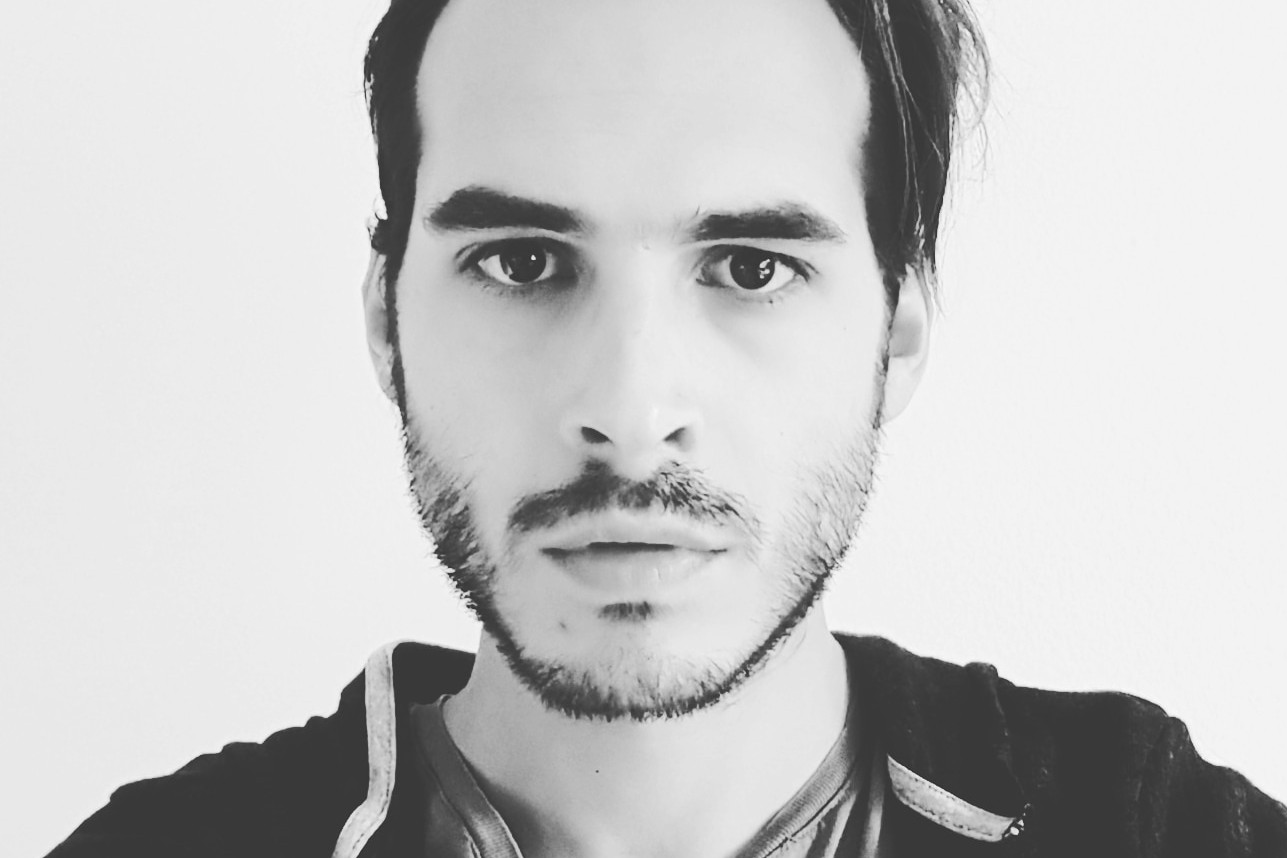
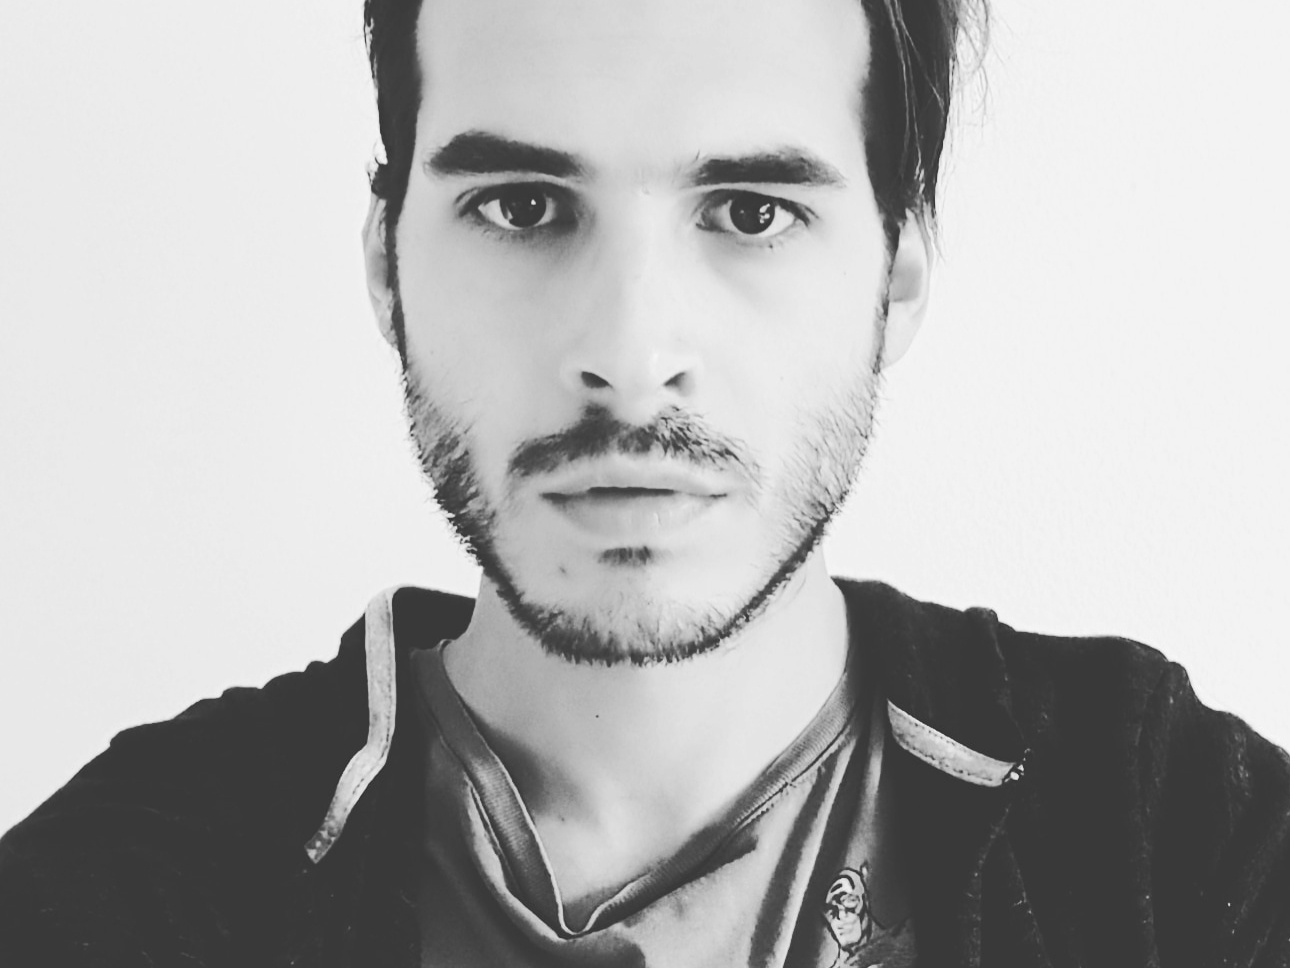
better images dave

diff --git a/about-us/david.html b/about-us/david.html
@@ -8,10 +8,10 @@
 
 <div class="green_text"><img src="../images/copyrighted/david_avatar.jpg"/><a href="https://www.linkedin.com/in/david-signer-04099011b/">David Signer</a>
 <br/>BSc in IT(SE) @ ZHAW
-<br/>Developer, Consultant, Teacher & Storyteller
-<br/>Dreamer, Writer, Dad
+<br/>Developer, Consultant, Teacher & sometimes Storyteller
+<br/>Dreamer, Writer, Father
 </div>
-<div><img src="../images/copyrighted/david_industrial.jpg"/>
+<div><img src="../images/copyrighted/david_livingroom.jpg"/>
     <br/><br/><br/><br/>
     <a href="https://github.com/signedav/">@signedav</a><br/>
     <a href="https://twitter.com/_davesigner">@_davesigner</a><br/>
